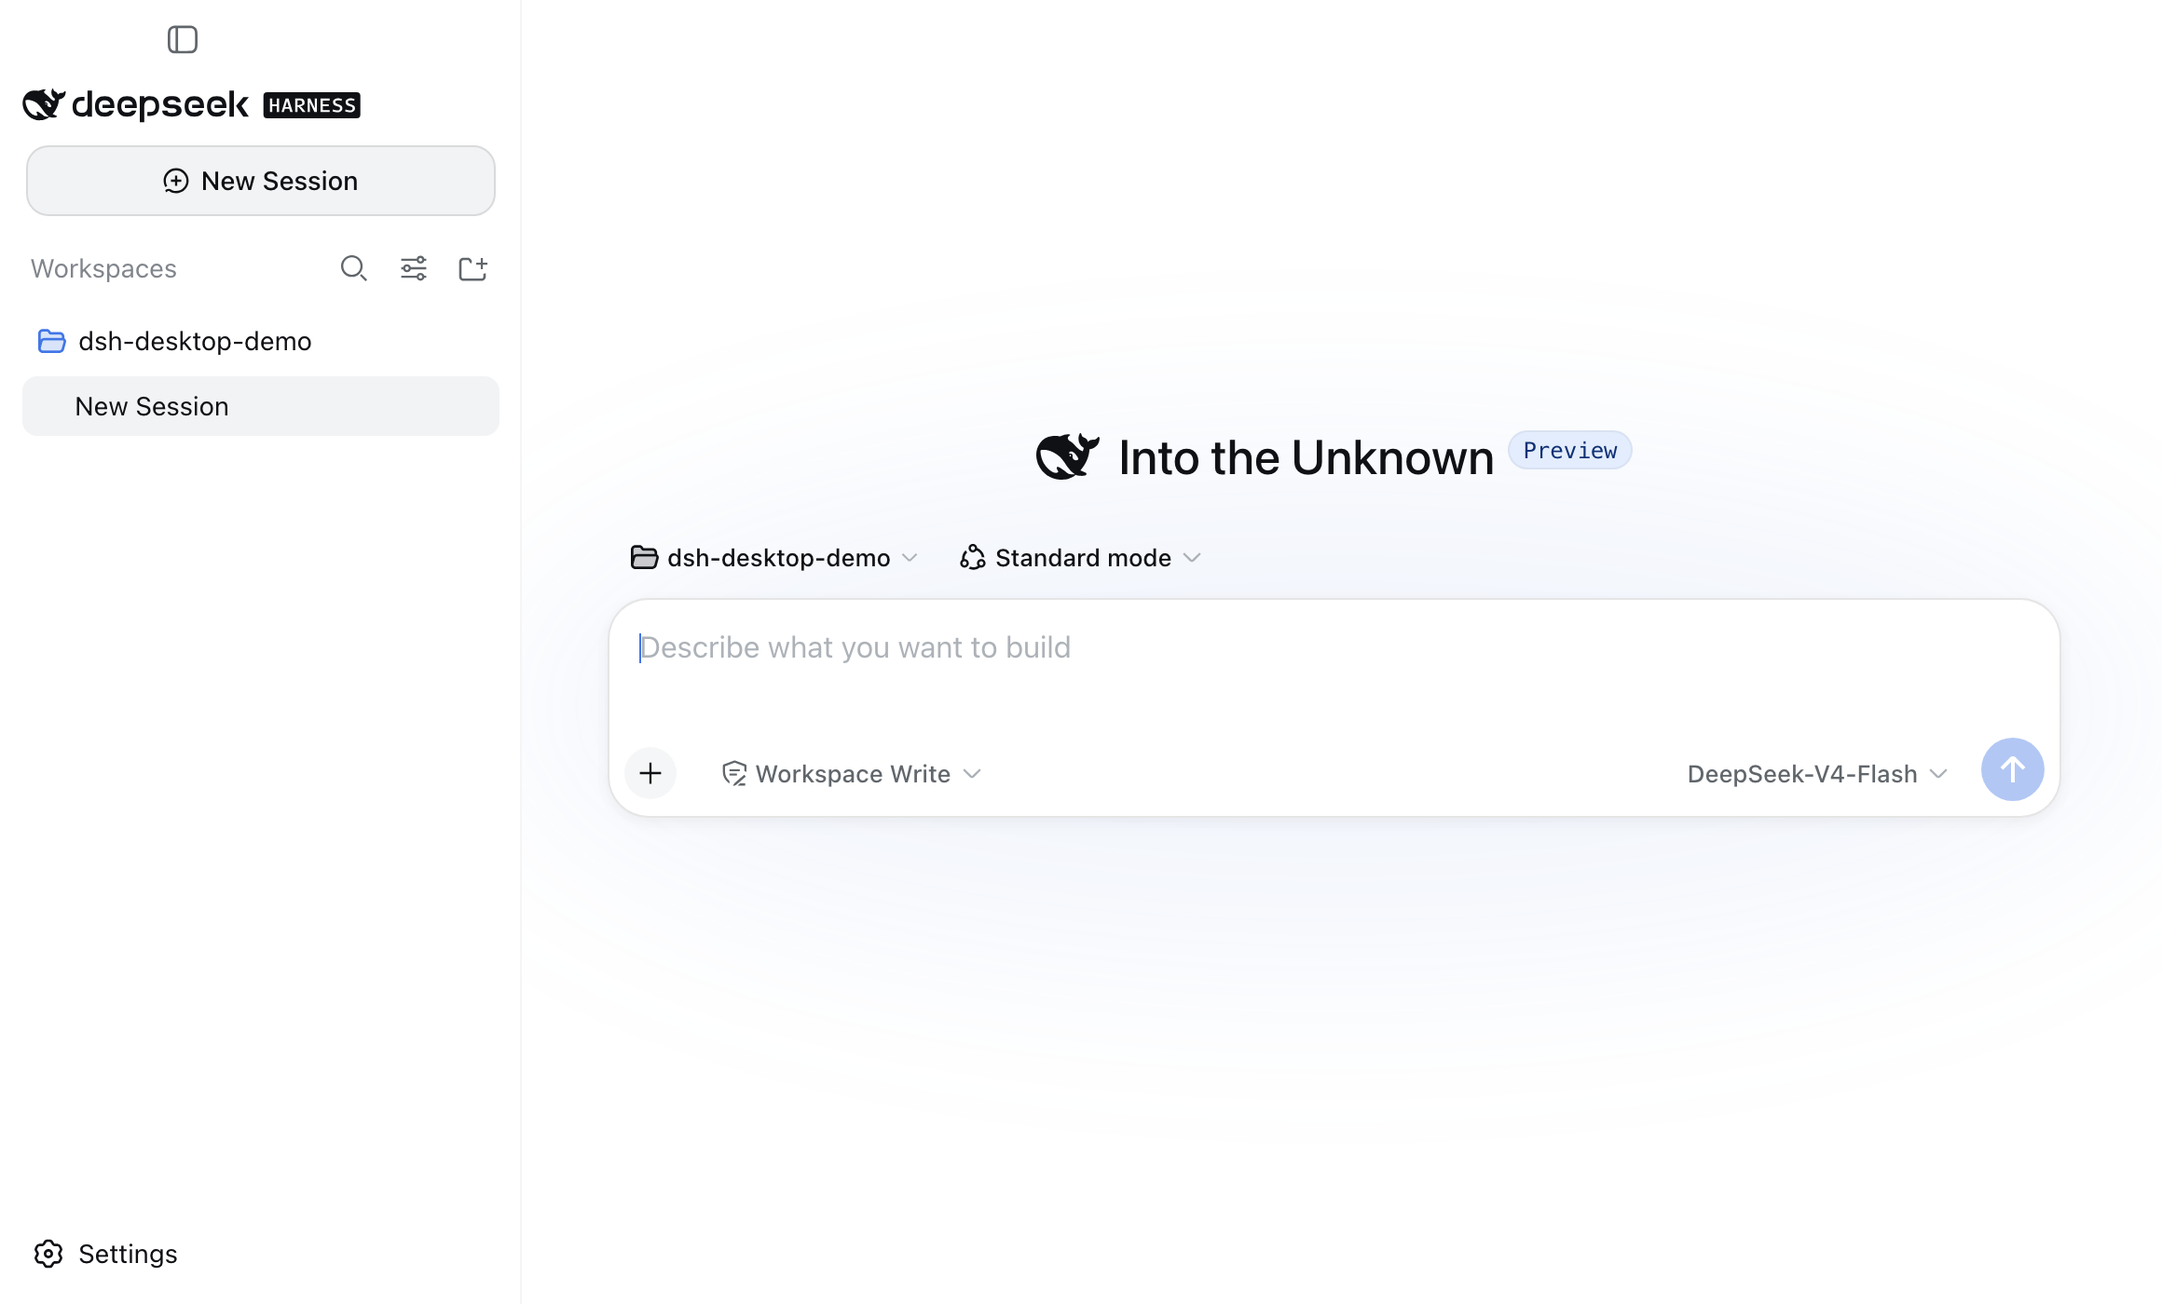
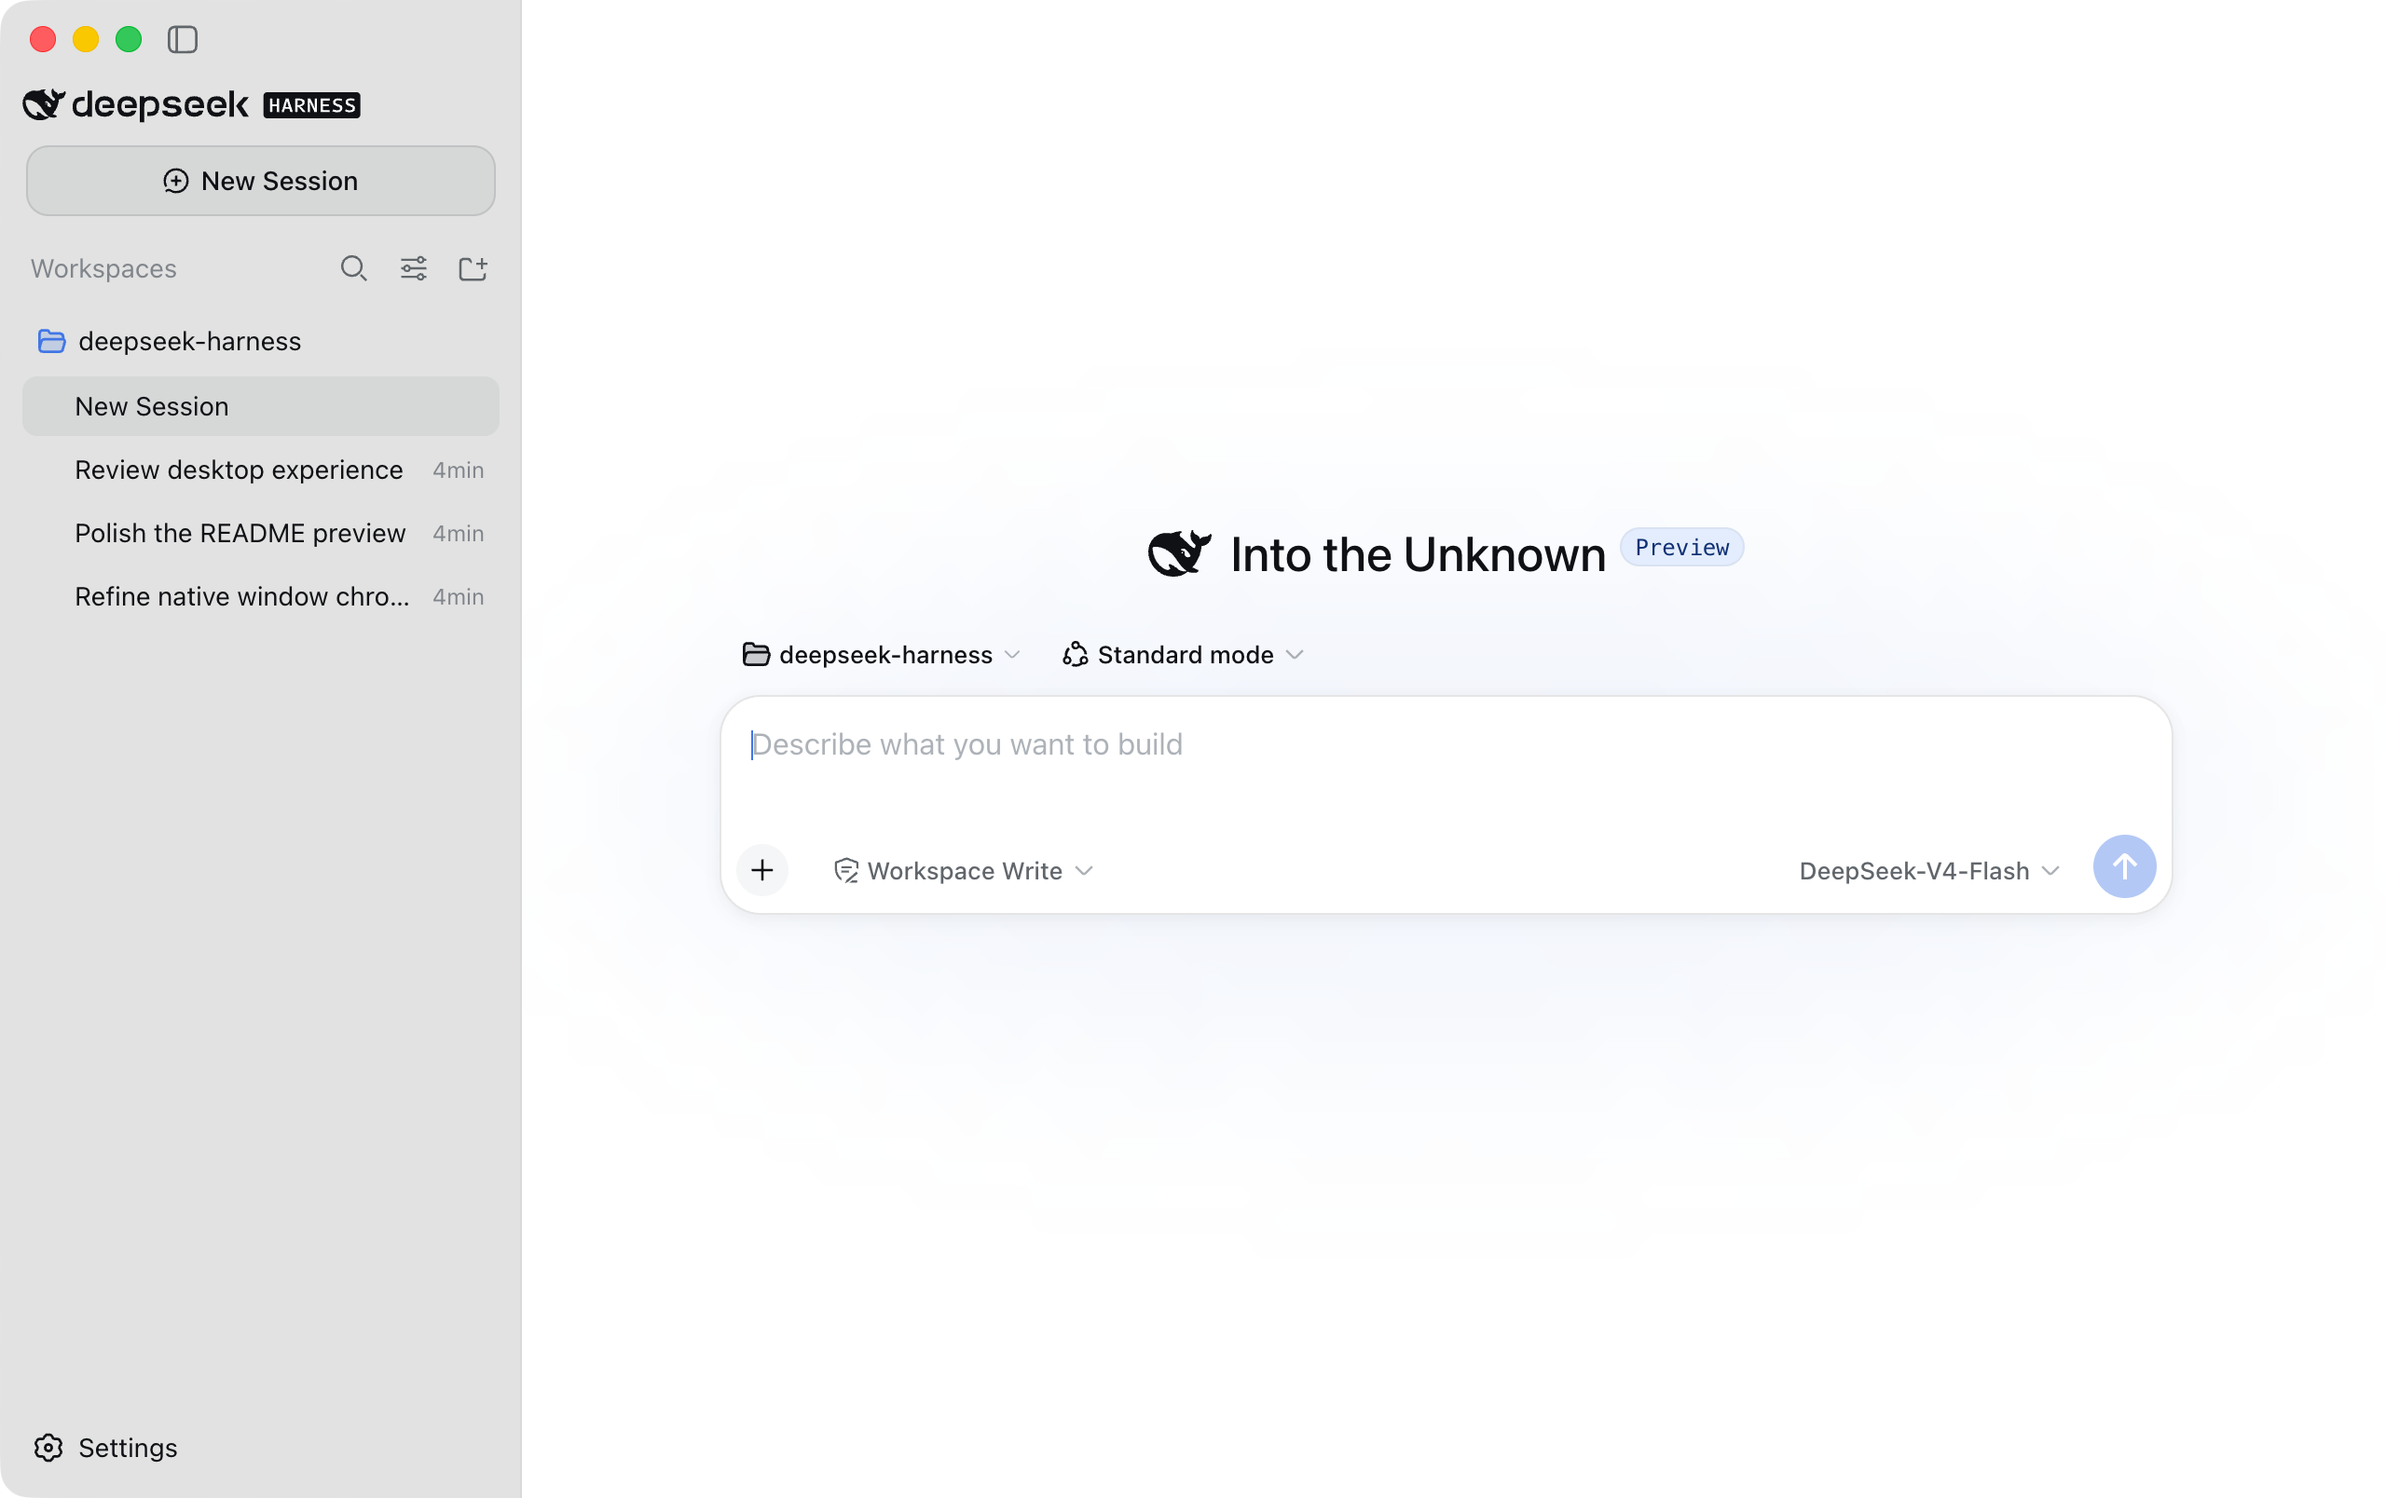
docs(readme): use native isolated desktop capture

diff --git a/README.md b/README.md
@@ -9,10 +9,10 @@ English | [中文](README.zh.md)
 `deepseek-harness-desktop` packages [DeepSeek Harness](https://github.com/deepseek-ai/deepseek-harness) as the native Electron application **DSH Desktop**. The desktop shell is the product-specific layer; the bundled `dsh` runtime keeps its plugin system, sessions, tools, PTYs, persistence, CLI identity, and documentation vocabulary.
 
 <p align="center">
-  <img src="./assets/readme/product-window.png" width="100%" alt="Installed DSH Desktop window with compact macOS chrome, a glass sidebar, a selected workspace, and the assembled agent composer">
+  <img src="./assets/readme/product-window.png" width="100%" alt="Installed DSH Desktop window with native macOS chrome, a glass sidebar, an isolated workspace with preset sessions, and the assembled agent composer">
 </p>
 
-<p align="center"><sub>Renderer capture from the installed macOS bundle, framed against a neutral backing to show the compact chrome and default glass sidebar layout.</sub></p>
+<p align="center"><sub>Native window capture from the installed macOS bundle using an isolated temporary profile and preset sessions, framed against a neutral backing.</sub></p>
 
 ## Desktop shell, full harness
 

diff --git a/README.zh.md b/README.zh.md
@@ -9,10 +9,10 @@
 `deepseek-harness-desktop` 将 [DeepSeek Harness](https://github.com/deepseek-ai/deepseek-harness) 打包为原生 Electron 应用 **DSH Desktop**。桌面外壳是本项目专属的产品层；内置 `dsh` 运行时继续保留插件系统、Session、工具、PTY、持久化、CLI 身份与文档术语。
 
 <p align="center">
-  <img src="./assets/readme/product-window.png" width="100%" alt="安装态 DSH Desktop 窗口，显示紧凑 macOS 窗口框架、玻璃侧栏、已选 Workspace 与装配完成的 agent 输入框">
+  <img src="./assets/readme/product-window.png" width="100%" alt="安装态 DSH Desktop 窗口，显示原生 macOS 窗口框架、玻璃侧栏、带预制会话的隔离 Workspace 与装配完成的 agent 输入框">
 </p>
 
-<p align="center"><sub>来自已安装 macOS 应用包的 renderer 捕获，以中性背景呈现紧凑窗口框架与默认玻璃侧栏布局。</sub></p>
+<p align="center"><sub>使用隔离临时配置与预制会话，从已安装 macOS 应用包捕获的原生窗口，并以中性背景呈现。</sub></p>
 
 ## 桌面外壳，完整 harness
 
